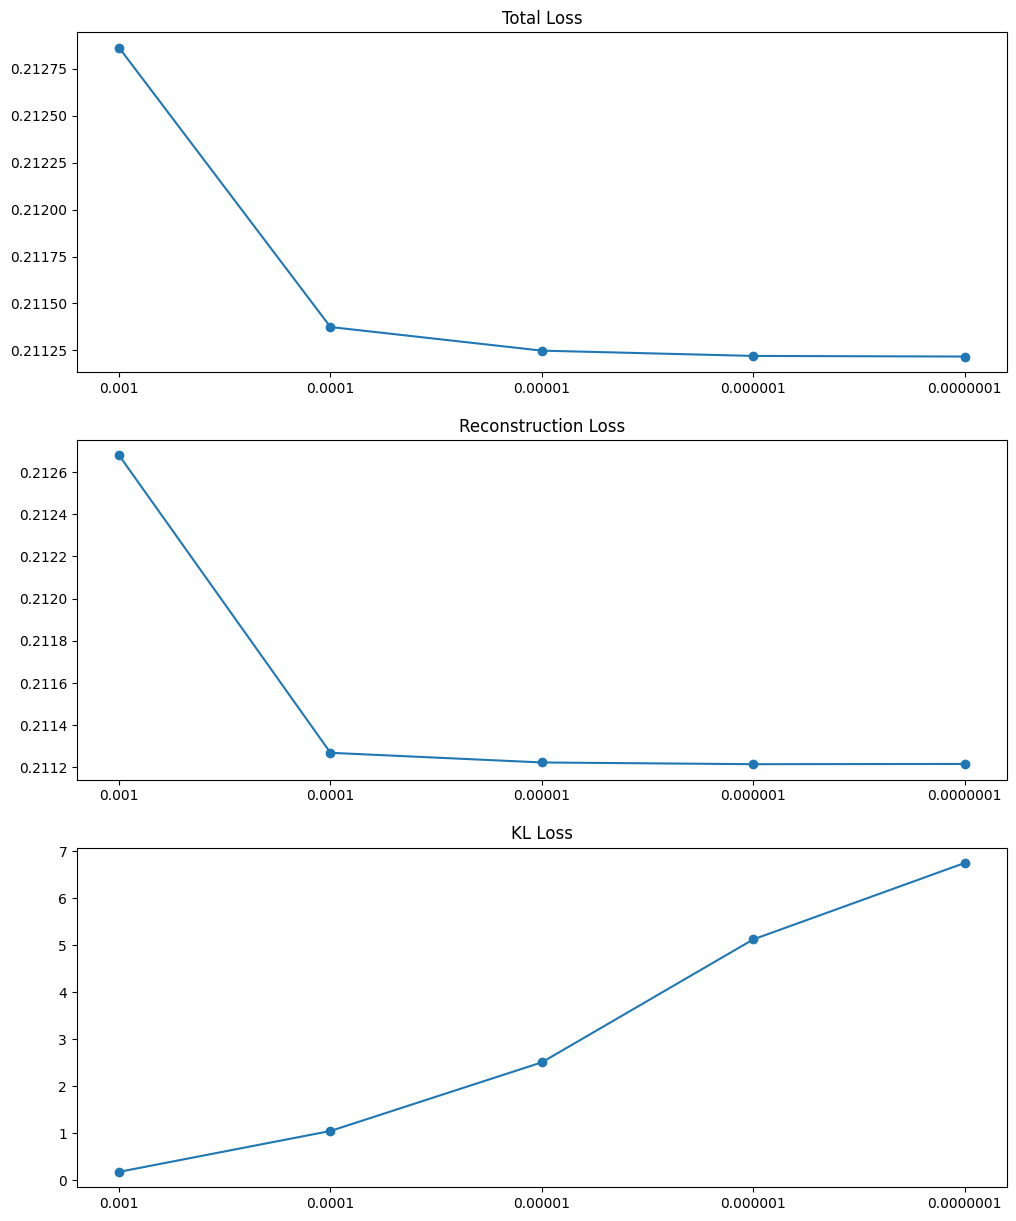
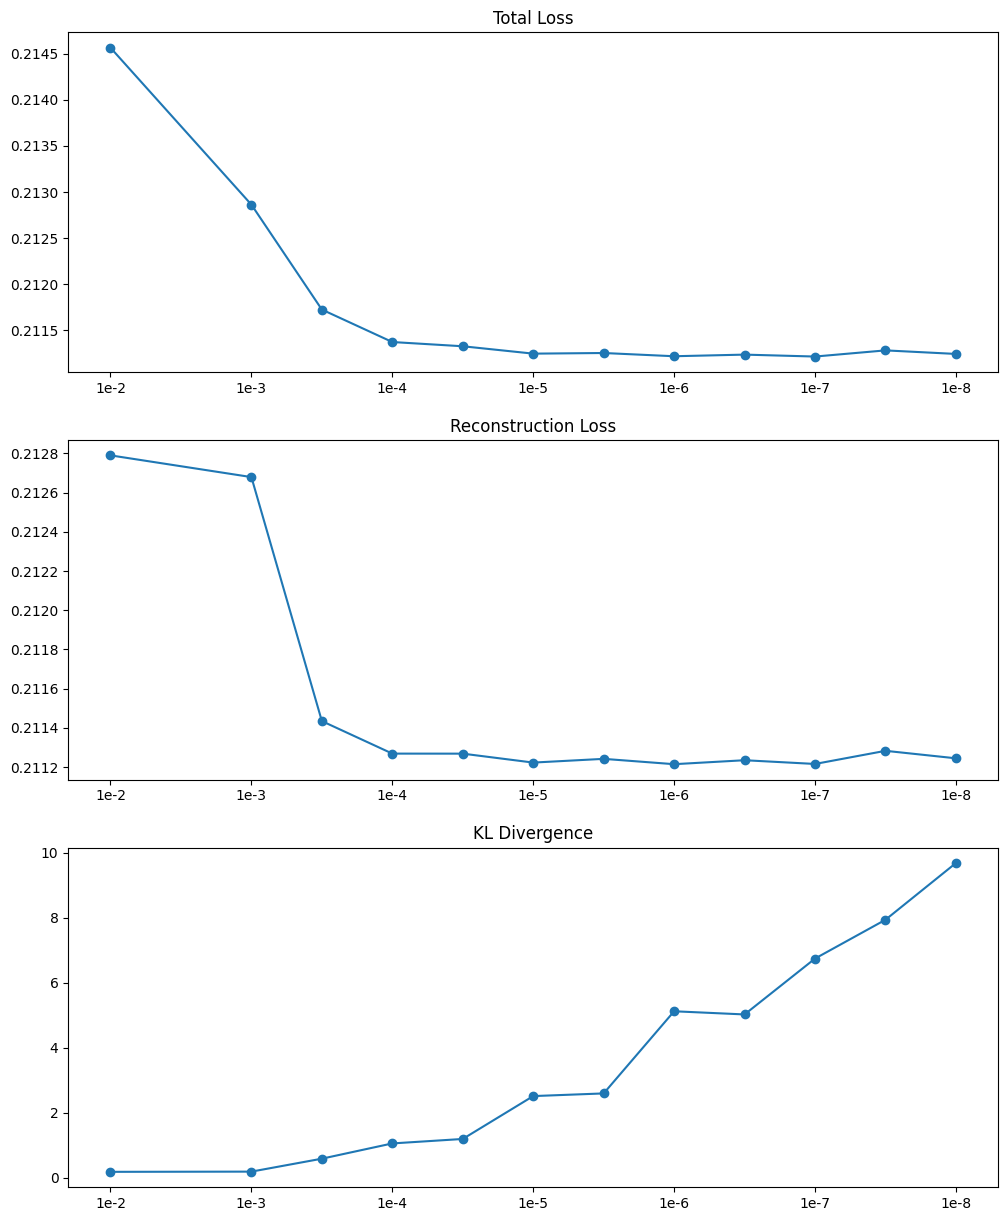
Code

diff --git a/vae_eagle.py b/vae_eagle.py
@@ -20,7 +20,7 @@ run = 1
 
 # select which gpu to use
 os.environ["CUDA_DEVICE_ORDER"]="PCI_BUS_ID"
-os.environ["CUDA_VISIBLE_DEVICES"]="8"
+os.environ["CUDA_VISIBLE_DEVICES"]="2"
 
 # number of epochs for run
 epochs = 750
@@ -528,7 +528,7 @@ for run in [1]:
 
                 # total loss
                 # total_loss = reconstruction_loss + kl_loss
-                total_loss = reconstruction_loss + (0.00000001 * kl_loss)
+                total_loss = reconstruction_loss + (0.0002 * kl_loss)
 
 
 
@@ -649,13 +649,13 @@ for run in [1]:
 
     # save the weights
     # vae.save_weights(filepath="Variational Eagle/Weights/Fully Balanced Mean/" + str(encoding_dim) + "_feature_" + str(epochs) + "_epoch_" + str(batch_size) + "_bs_weights_" + str(run) + ".weights.h5", overwrite=True)
-    vae.save_weights(filepath="Variational Eagle/Weights/Test/bce_beta_00000001.weights.h5", overwrite=True)
+    vae.save_weights(filepath="Variational Eagle/Weights/Test/bce_beta_0002.weights.h5", overwrite=True)
 
 
     # generate extracted features from trained encoder and save as numpy array
     extracted_features = vae.encoder.predict(train_images)
     # np.save("Variational Eagle/Extracted Features/Fully Balanced Mean/" + str(encoding_dim) + "_feature_" + str(epochs) + "_epoch_" + str(batch_size) + "_bs_features_" + str(run) + ".npy", extracted_features)
-    np.save("Variational Eagle/Extracted Features/Test/bce_beta_00000001.npy", extracted_features)
+    np.save("Variational Eagle/Extracted Features/Test/bce_beta_0002.npy", extracted_features)
 
     print(np.array(extracted_features).shape)
 
@@ -664,7 +664,7 @@ for run in [1]:
     print("\n \n" + str(encoding_dim))
     print(str(loss[0]) + "   " + str(loss[1]) + "   " + str(loss[2]) + "\n")
     # np.save("Variational Eagle/Loss/Fully Balanced Mean/" + str(encoding_dim) + "_feature_" + str(epochs) + "_epoch_" + str(batch_size) + "_bs_loss_" + str(run) + ".npy", loss)
-    np.save("Variational Eagle/Loss/Test/bce_beta_00000001.npy", loss)
+    np.save("Variational Eagle/Loss/Test/bce_beta_0002.npy", loss)
 
 
 
@@ -729,7 +729,7 @@ for run in [1]:
 
 
     # plt.savefig("Variational Eagle/Loss Plots/fully_balanced_mean_" + str(encoding_dim) + "_feature_" + str(epochs) + "_epochs_" + str(batch_size) + "_bs_loss_" + str(run))
-    plt.savefig("Variational Eagle/Loss Plots/test_bce_beta_00000001")
+    plt.savefig("Variational Eagle/Loss Plots/test_bce_beta_0002")
     plt.show()
 
 
@@ -809,7 +809,7 @@ for run in [1]:
         axs[1, i].get_yaxis().set_visible(False)
 
     # plt.savefig("Variational Eagle/Reconstructions/Training/fully_balanced_mean_" + str(encoding_dim) + "_feature_" + str(epochs) + "_epoch_" + str(batch_size) + "_bs_reconstruction_" + str(run))
-    plt.savefig("Variational Eagle/Reconstructions/Training/test_bce_beta_00000001")
+    plt.savefig("Variational Eagle/Reconstructions/Training/test_bce_beta_0002")
     plt.show()
 
 
@@ -851,7 +851,7 @@ for run in [1]:
         axs[1,i].get_yaxis().set_visible(False)
 
     # plt.savefig("Variational Eagle/Reconstructions/Testing/fully_balanced_mean_" + str(encoding_dim) + "_feature_" + str(epochs) + "_epoch_" + str(batch_size) + "_bs_reconstruction_" + str(run))
-    plt.savefig("Variational Eagle/Reconstructions/Testing/test_bce_beta_00000001")
+    plt.savefig("Variational Eagle/Reconstructions/Testing/test_bce_beta_0002")
     plt.show()
 
 

diff --git a/optimal_beta.py b/optimal_beta.py
@@ -14,7 +14,7 @@ import random
 
 # for run_number, (beta, filename) in enumerate([[0.001, "001"], [0.0001, "0001"], [0.00001, "00001"], [0.000001, "000001"], [0.0000001, "0000001"]]):
 
-betas = [0.001, 0.001, 0.00001, 0.000001, 0.0000001]
+betas = [0.01, 0.001, 0.0005, 0.0001, 0.00005, 0.00001, 0.000005, 0.000001, 0.0000005, 0.0000001, 0.00000005, 0.00000001]
 
 total_loss = np.load("Variational Eagle/Loss/Test/total_loss_beta.npy")
 reconstruction_loss = np.load("Variational Eagle/Loss/Test/reconstruction_loss_beta.npy")
@@ -25,20 +25,31 @@ fig, axs = plt.subplots(3, 1, figsize=(12, 15))
 # fig, axs = plt.subplots(1, 1, figsize=(12, 5))
 
 
-beta_words = ["0.001", "0.0001", "0.00001", "0.000001", "0.0000001"]
+# beta_words = ["0.001", "0.0001", "0.00001", "0.000001", "0.0000001"]
+beta_scale = [1, 2, 2.5, 3, 3.5, 4, 4.5, 5, 5.5, 6, 6.5, 7]
+# beta_words = ["1e-2", "1e-3", "5e-4", "1e-4", "5e-5", "1e-5", "5e-6", "1e-6", "5e-7", "1e-7", "5e-8", "1e-8"]
+beta_words = ["1e-2", "1e-3", "1e-4", "1e-5", "1e-6", "1e-7", "1e-8"]
 
 # axs.plot(y=reconstruction_loss, x=beta_words)
-axs[0].plot(beta_words, total_loss)
-axs[0].scatter(beta_words, total_loss)
+axs[0].plot(beta_scale, total_loss)
+axs[0].scatter(beta_scale, total_loss)
 axs[0].set_title("Total Loss")
+axs[0].set_xticks([1, 2, 3, 4, 5, 6, 7])
+axs[0].set_xticklabels(beta_words)
 
-axs[1].plot(beta_words, reconstruction_loss)
-axs[1].scatter(beta_words, reconstruction_loss)
+axs[1].plot(beta_scale, reconstruction_loss)
+axs[1].scatter(beta_scale, reconstruction_loss)
 axs[1].set_title("Reconstruction Loss")
+axs[1].set_xticks([1, 2, 3, 4, 5, 6, 7])
+axs[1].set_xticklabels(beta_words)
 
-axs[2].plot(beta_words, kl_loss)
-axs[2].scatter(beta_words, kl_loss)
-axs[2].set_title("KL Loss")
+
+axs[2].plot(beta_scale, kl_loss)
+axs[2].scatter(beta_scale, kl_loss)
+axs[2].set_title("KL Divergence")
+axs[2].set_xticks([1, 2, 3, 4, 5, 6, 7])
+axs[2].set_xticklabels(beta_words)
+
 
 # plt.legend()
 plt.savefig("Variational Eagle/Plots/optimal_beta", bbox_inches='tight')
